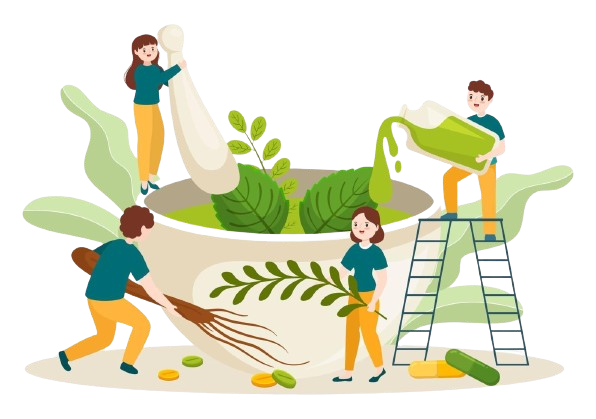
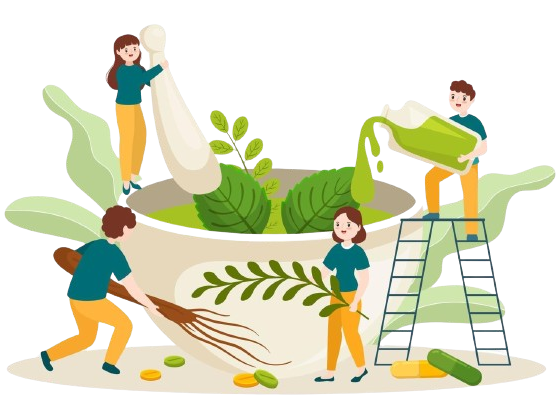
image fixed in home screen

diff --git a/css/home.css b/css/home.css
@@ -18,10 +18,6 @@
     top: 0%;
 }
 
-#home .right-container img{
-    width: 90%;
-}
-
 #home .left-container h1 {
     text-transform: uppercase;
     color: #5E8BFF;
